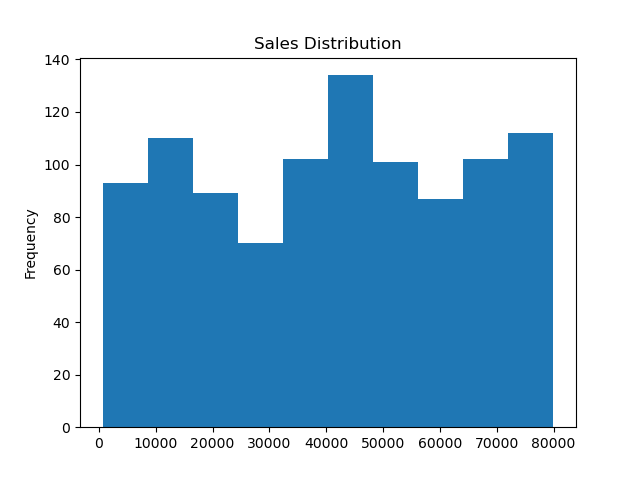
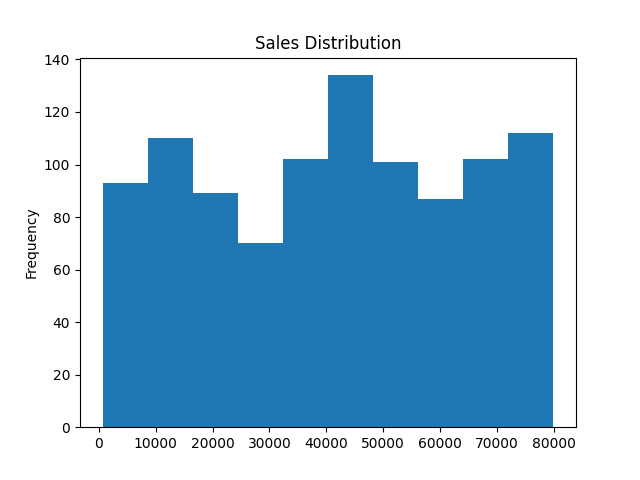
Project completed

diff --git a/main.py b/main.py
@@ -1,0 +1,89 @@
+import pandas as pd
+import matplotlib.pyplot as plt
+
+def load_data():
+    return pd.read_csv("Dataset/Sample_dataset.csv")
+
+def clean_data(df):
+
+    df = df.drop_duplicates().copy()
+
+    df["Sales"] = df["Sales"].fillna(df["Sales"].mean())
+
+    df["Product"] = df["Product"].fillna("Unknown")
+
+    df["PaymentMethod"] = df["PaymentMethod"].fillna(df["PaymentMethod"].mode()[0])
+
+    df["OrderStatus"] = df["OrderStatus"].fillna(df["OrderStatus"].mode()[0])
+
+
+    
+    df["Category"] = df["Category"].str.strip().str.title()
+
+    df["PaymentMethod"] = df["PaymentMethod"].str.strip().str.title()
+
+    df["OrderStatus"] = df["OrderStatus"].str.strip().str.title()
+
+
+    columns = ["Product", "Category", "Region", "PaymentMethod", "OrderStatus"]
+
+    for col in columns:
+        print(f"\n{col}:")
+        print(df[col].unique())
+
+
+    df.to_csv("Reports/Cleaned_data.csv", index=False)
+
+    print(df.head())
+    
+    return df
+
+def generate_reports(df):
+
+    summary = df.describe()
+    print(summary)
+
+    pd.options.display.float_format = '{:,.0f}'.format
+
+    product_sales = df.groupby('Product')['Sales'].sum()    # Product wise sales
+
+    region_sales = df.groupby('Region')['Sales'].sum()     # Region wise sales
+
+    summary.to_csv('Reports/Summary_report.csv')
+
+    product_sales.to_csv('Reports/Product_sales_report.csv')
+
+    region_sales.to_csv('Reports/Region_sales_report.csv')
+
+def generate_charts(df):
+
+    product_sales = df.groupby('Product')['Sales'].sum()    # Product wise sales
+
+    region_sales = df.groupby('Region')['Sales'].sum()     # Region wise sales
+
+    product_sales.plot(kind="bar")
+    plt.title("Product Sales")
+    plt.tight_layout()
+    plt.savefig("Images/Product_sales.png")
+    plt.close()
+
+    region_sales.plot(kind="pie", autopct="%1.1f%%")
+    plt.ylabel("")
+    plt.savefig("Images/Region_sales.png")
+    plt.close()
+        
+    df["Sales"].plot(kind="hist", bins=10)
+    plt.title("Sales Distribution")
+    plt.savefig("Images/Sales_distribution.png")
+    plt.close()  
+
+def main():
+    df = load_data()
+    df = clean_data(df)
+    generate_reports(df)
+    generate_charts(df)
+
+    print("Automation Completed Successfully")
+
+if __name__ == "__main__":
+    main()